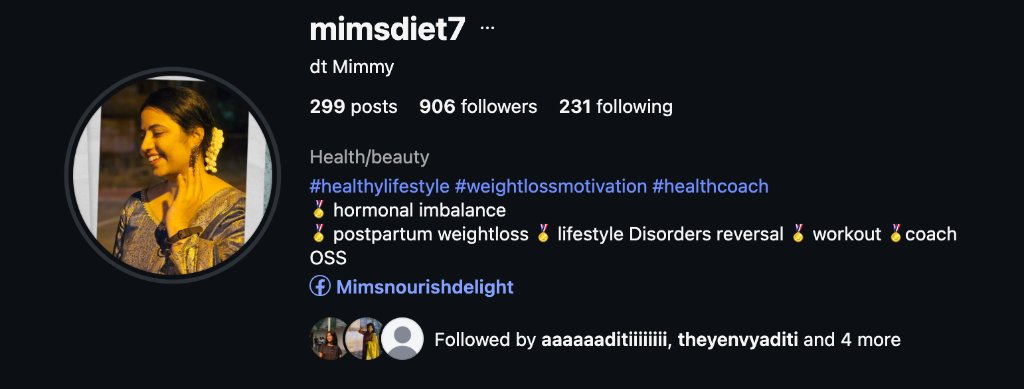
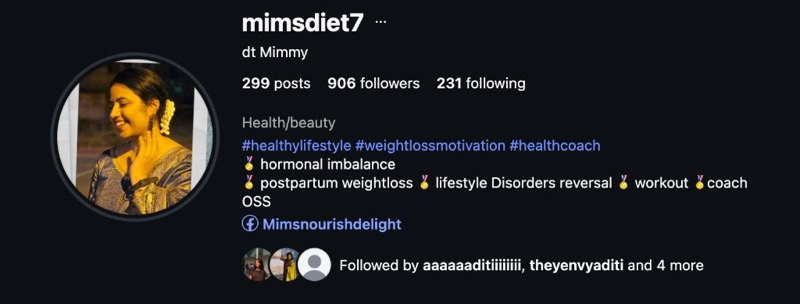
Fix mobile browser layout and responsive hero elements without altering desktop view

diff --git a/styles.css b/styles.css
@@ -137,7 +137,38 @@ body {
   width: 16px !important;
   height: 16px !important;
 }
-@media (max-width: 768px) { #topBanner { padding: 10px 16px; } }
+@media (max-width: 768px) {
+  #topBanner {
+    padding: 8px 12px !important;
+  }
+  #topBanner .inner {
+    padding: 4px 34px 4px 4px !important;
+    justify-content: flex-start !important;
+  }
+  #topBanner .top-banner-text {
+    font-size: 11.5px !important;
+    line-height: 1.35 !important;
+    display: inline !important;
+    text-align: left !important;
+  }
+  #topBanner .top-banner-text strong {
+    display: inline !important;
+  }
+  #topBanner .abstract {
+    display: none !important;
+  }
+  #topBanner .dismiss {
+    right: 4px !important;
+    top: 50% !important;
+    transform: translateY(-50%) !important;
+    width: 24px !important;
+    height: 24px !important;
+  }
+  #topBanner .dismiss svg {
+    width: 14px !important;
+    height: 14px !important;
+  }
+}
 
 /* ── Navbar (De-congested & Polished) ── */
 #navbar {
@@ -279,8 +310,43 @@ body {
   #mobileMenuBtn { display: block; }
 }
 @media (max-width: 768px) {
-  #navbar { padding: 12px 18px; }
-  .nav-portal-btn { display: none; }
+  #navbar {
+    padding: 10px 14px !important;
+  }
+  .nav-inner {
+    gap: 8px !important;
+  }
+  .nav-logo {
+    gap: 8px !important;
+  }
+  .nav-avatar {
+    width: 32px !important;
+    height: 32px !important;
+  }
+  .nav-brand-title {
+    font-size: 15px !important;
+  }
+  .nav-brand-sub {
+    font-size: 10px !important;
+  }
+  .nav-right {
+    gap: 8px !important;
+  }
+  .nav-portal-btn {
+    display: none !important;
+  }
+  .nav-quiz-btn {
+    padding: 6px 12px !important;
+    font-size: 11.5px !important;
+    border-radius: 999px !important;
+  }
+  #mobileMenuBtn {
+    padding: 4px !important;
+  }
+  #mobileMenuBtn svg {
+    width: 24px !important;
+    height: 24px !important;
+  }
 }
 
 /* Mobile nav dropdown */
@@ -947,6 +1013,9 @@ body {
   transition: opacity 0.35s ease, transform 0.35s ease, visibility 0.35s ease;
   animation: pulseHintPill 2.8s ease-in-out infinite;
 }
+.reveal-hint-pill .hint-mobile {
+  display: none;
+}
 
 /* ── Revealed State: Smooth, Gentle Outward Glide Framing the Hero Text (Easy on Eyes, Discernible) ── */
 .hero-heading-wrap.revealed .elem-avo,
@@ -1155,16 +1224,71 @@ body {
 }
 
 @media (max-width: 768px) {
-  #hero { min-height: 720px; padding: 20px 0; }
-  .orbit-outer { width: 320px; height: 320px; }
-  .orbit-middle { width: 240px; height: 240px; }
-  .orbit-inner { width: 180px; height: 180px; }
-  .hero-heading { font-size: 32px; }
-  .hero-para { font-size: 16px; }
-  .hero-badges-grid { flex-direction: column; align-items: stretch; width: 100%; }
-  .hero-badge { justify-content: center; }
-  .hero-btns { flex-direction: column; width: 100%; }
-  .hero-btns .btn-primary, .hero-btns .btn-secondary { width: 100%; justify-content: center; }
+  #hero {
+    min-height: auto !important;
+    padding: 24px 0 48px 0 !important;
+    overflow: hidden !important;
+  }
+  .hero-content-overlay {
+    padding: 0 16px !important;
+    width: 100% !important;
+    max-width: 100% !important;
+  }
+  .hero-tag {
+    font-size: clamp(13px, 3.8vw, 15px) !important;
+    padding-bottom: 4px !important;
+    border-bottom-width: 2px !important;
+  }
+  .orbit-outer { width: 300px; height: 300px; }
+  .orbit-middle { width: 220px; height: 220px; }
+  .orbit-inner { width: 160px; height: 160px; }
+  .hero-heading {
+    font-size: clamp(24px, 6.8vw, 32px) !important;
+    line-height: 1.22 !important;
+  }
+  .hero-para {
+    font-size: 14.5px !important;
+    line-height: 1.55 !important;
+    padding: 0 4px !important;
+  }
+  .hero-badges-grid {
+    display: grid !important;
+    grid-template-columns: repeat(2, 1fr) !important;
+    gap: 8px !important;
+    width: 100% !important;
+    max-width: 380px !important;
+    margin: 0 auto !important;
+  }
+  .hero-badge {
+    justify-content: center !important;
+    font-size: 11.5px !important;
+    padding: 8px 8px !important;
+    white-space: nowrap !important;
+    text-align: center !important;
+  }
+  .hero-btns {
+    flex-direction: column !important;
+    width: 100% !important;
+    max-width: 380px !important;
+    margin: 0 auto !important;
+    gap: 10px !important;
+  }
+  .hero-btns .btn-primary, .hero-btns .btn-secondary {
+    width: 100% !important;
+    justify-content: center !important;
+    font-size: 14px !important;
+    padding: 12px 18px !important;
+  }
+  .hero-social-proof {
+    flex-direction: column !important;
+    gap: 8px !important;
+    text-align: center !important;
+    margin-top: 14px !important;
+  }
+  .hero-happy-count {
+    margin-left: 0 !important;
+    font-size: 14px !important;
+  }
 }
 
 /* ── STATS RIBBON ── */
@@ -1856,37 +1980,109 @@ body {
   .dash-content { padding: 24px 20px; }
 
   .hero-heading-wrap {
-    padding: 8px 12px;
+    padding: 10px 14px !important;
+    margin-bottom: 20px !important;
+    max-width: 100% !important;
   }
   .elem-steth {
-    width: 170px;
-    height: 110px;
-    right: 5px;
-    bottom: -16px;
+    width: 90px !important;
+    height: 64px !important;
+    right: 4px !important;
+    bottom: -16px !important;
+    top: auto !important;
+    left: auto !important;
   }
   .elem-avo,
   .elem-rice-bag {
-    width: 125px;
-    height: 125px;
-    left: 5px;
-    bottom: -20px;
+    width: 72px !important;
+    height: 72px !important;
+    top: -24px !important;
+    left: -8px !important;
+    bottom: auto !important;
+    right: auto !important;
+  }
+  .elem-wheat {
+    width: 68px !important;
+    height: 94px !important;
+    bottom: -18px !important;
+    left: 4px !important;
+    top: auto !important;
+    right: auto !important;
   }
   .elem-leaf-left {
-    width: 135px;
-    height: 125px;
-    top: -24px;
-    left: -15px;
+    width: 76px !important;
+    height: 76px !important;
+    top: -22px !important;
+    left: -10px !important;
+    bottom: auto !important;
+    right: auto !important;
   }
   .elem-leaf-right {
-    width: 135px;
-    height: 125px;
-    top: -22px;
-    right: -12px;
+    width: 84px !important;
+    height: 80px !important;
+    top: -22px !important;
+    right: -6px !important;
+    bottom: auto !important;
+    left: auto !important;
   }
   .reveal-hint-pill {
-    font-size: 10px;
-    padding: 4px 12px;
-    bottom: -28px;
+    font-size: 10.5px !important;
+    padding: 5px 14px !important;
+    bottom: -24px !important;
+    white-space: nowrap !important;
+  }
+  .reveal-hint-pill .hint-desktop {
+    display: none !important;
+  }
+  .reveal-hint-pill .hint-mobile {
+    display: inline !important;
+  }
+
+  /* Chatbot trigger refined for mobile */
+  #chatWidget {
+    bottom: 16px !important;
+    right: 16px !important;
+  }
+  #chatTrigger {
+    padding: 8px 14px 8px 8px !important;
+    gap: 8px !important;
+  }
+  #chatTrigger .ct-avatar {
+    width: 36px !important;
+    height: 36px !important;
+  }
+  #chatTrigger .ct-label strong {
+    font-size: 12px !important;
+  }
+  #chatTrigger .ct-label small {
+    display: none !important;
+  }
+
+  /* Polish content cards on mobile */
+  .section-header {
+    margin-bottom: 32px !important;
+  }
+  .section-header h2 {
+    font-size: clamp(24px, 5.8vw, 32px) !important;
+  }
+  .feature-card {
+    padding: 24px 20px !important;
+  }
+  .pricing-card {
+    padding: 28px 20px !important;
+    gap: 20px !important;
+  }
+  .pricing-price {
+    font-size: 38px !important;
+  }
+  .pricing-plan-name {
+    font-size: 22px !important;
+  }
+  .quiz-card {
+    padding: 24px 16px !important;
+  }
+  .quiz-header {
+    margin-bottom: 20px !important;
   }
 }
 

diff --git a/app.js b/app.js
@@ -1911,31 +1911,33 @@ function initParallaxAndCursorEffects() {
       const blurVal = (2.5 * p).toFixed(2);
       const opacityVal = (1 - 0.62 * p).toFixed(3);
       const dropShadow = 'drop-shadow(0 12px 24px rgba(0, 0, 0, 0.6))';
+      const isMobile = typeof window !== 'undefined' && window.innerWidth <= 768;
+      const spread = isMobile ? 0.45 : 1.0;
 
       // 1. Avocado (top-left): glides outwards towards top-left (-65px, -35px)
       if (avo) {
-        avo.style.transform = `translate3d(${(-65 * p).toFixed(2)}px, ${(-35 * p).toFixed(2)}px, 0) rotate(${(-14 - 4 * p).toFixed(2)}deg) scale(${(1 - 0.08 * p).toFixed(3)})`;
+        avo.style.transform = `translate3d(${(-65 * spread * p).toFixed(2)}px, ${(-35 * spread * p).toFixed(2)}px, 0) rotate(${(-14 - 4 * p).toFixed(2)}deg) scale(${(1 - 0.08 * p).toFixed(3)})`;
         avo.style.opacity = opacityVal;
         avo.style.filter = `blur(${blurVal}px) ${dropShadow}`;
       }
 
       // 2. Wheat Bud (lower-left): glides outwards towards bottom-left (-55px, +40px)
       if (wheat) {
-        wheat.style.transform = `translate3d(${(-55 * p).toFixed(2)}px, ${(40 * p).toFixed(2)}px, 0) rotate(${(10 - 4 * p).toFixed(2)}deg) scale(${(1 - 0.08 * p).toFixed(3)})`;
+        wheat.style.transform = `translate3d(${(-55 * spread * p).toFixed(2)}px, ${(40 * spread * p).toFixed(2)}px, 0) rotate(${(10 - 4 * p).toFixed(2)}deg) scale(${(1 - 0.08 * p).toFixed(3)})`;
         wheat.style.opacity = opacityVal;
         wheat.style.filter = `blur(${blurVal}px) ${dropShadow}`;
       }
 
       // 3. Right Tulsi Leaf (top-right): glides outwards towards top-right (+65px, -35px)
       if (leafR) {
-        leafR.style.transform = `translate3d(${(65 * p).toFixed(2)}px, ${(-35 * p).toFixed(2)}px, 0) rotate(${(8 + 6 * p).toFixed(2)}deg) scale(${(1 - 0.08 * p).toFixed(3)})`;
+        leafR.style.transform = `translate3d(${(65 * spread * p).toFixed(2)}px, ${(-35 * spread * p).toFixed(2)}px, 0) rotate(${(8 + 6 * p).toFixed(2)}deg) scale(${(1 - 0.08 * p).toFixed(3)})`;
         leafR.style.opacity = opacityVal;
         leafR.style.filter = `blur(${blurVal}px) ${dropShadow}`;
       }
 
       // 4. Clinical Stethoscope (lower-right): glides outwards towards bottom-right (+70px, +40px)
       if (steth) {
-        steth.style.transform = `translate3d(${(70 * p).toFixed(2)}px, ${(40 * p).toFixed(2)}px, 0) rotate(${(10 * p).toFixed(2)}deg) scale(${(1 - 0.08 * p).toFixed(3)})`;
+        steth.style.transform = `translate3d(${(70 * spread * p).toFixed(2)}px, ${(40 * spread * p).toFixed(2)}px, 0) rotate(${(10 * p).toFixed(2)}deg) scale(${(1 - 0.08 * p).toFixed(3)})`;
         steth.style.opacity = opacityVal;
         steth.style.filter = `blur(${blurVal}px) ${dropShadow}`;
       }

diff --git a/index.html b/index.html
@@ -25,7 +25,7 @@
   <div class="inner">
     <img src="assets/figma/abstract-left.svg" alt="" class="abstract left">
     <img src="assets/figma/abstract-right.svg" alt="" class="abstract right">
-    <span style="font-size:16px; font-weight:600; color:#fff; display:flex; align-items:center; gap:8px;">
+    <span class="top-banner-text" style="font-size:16px; font-weight:600; color:#fff; display:flex; align-items:center; gap:8px;">
       🌱 Limited slots open — Book your <strong style="color:#CBEA7B;">&nbsp;Free 15-Min Discovery Call&nbsp;</strong> with dt Mimmy now!
     </span>
     <button class="dismiss" onclick="document.getElementById('topBanner').remove()" aria-label="Close" style="background:#EF4444; border:none; border-radius:6px; width:28px; height:28px; display:flex; align-items:center; justify-content:center; cursor:pointer;">
@@ -562,7 +562,8 @@
 
             <!-- 5. Interactive Hint Pill -->
             <div class="reveal-hint-pill">
-              <span>🌿 Move cursor over to unveil coaching text</span>
+              <span class="hint-desktop">🌿 Move cursor over to unveil coaching text</span>
+              <span class="hint-mobile">🌿 Tap to unveil coaching text</span>
             </div>
           </div>
         </div>
